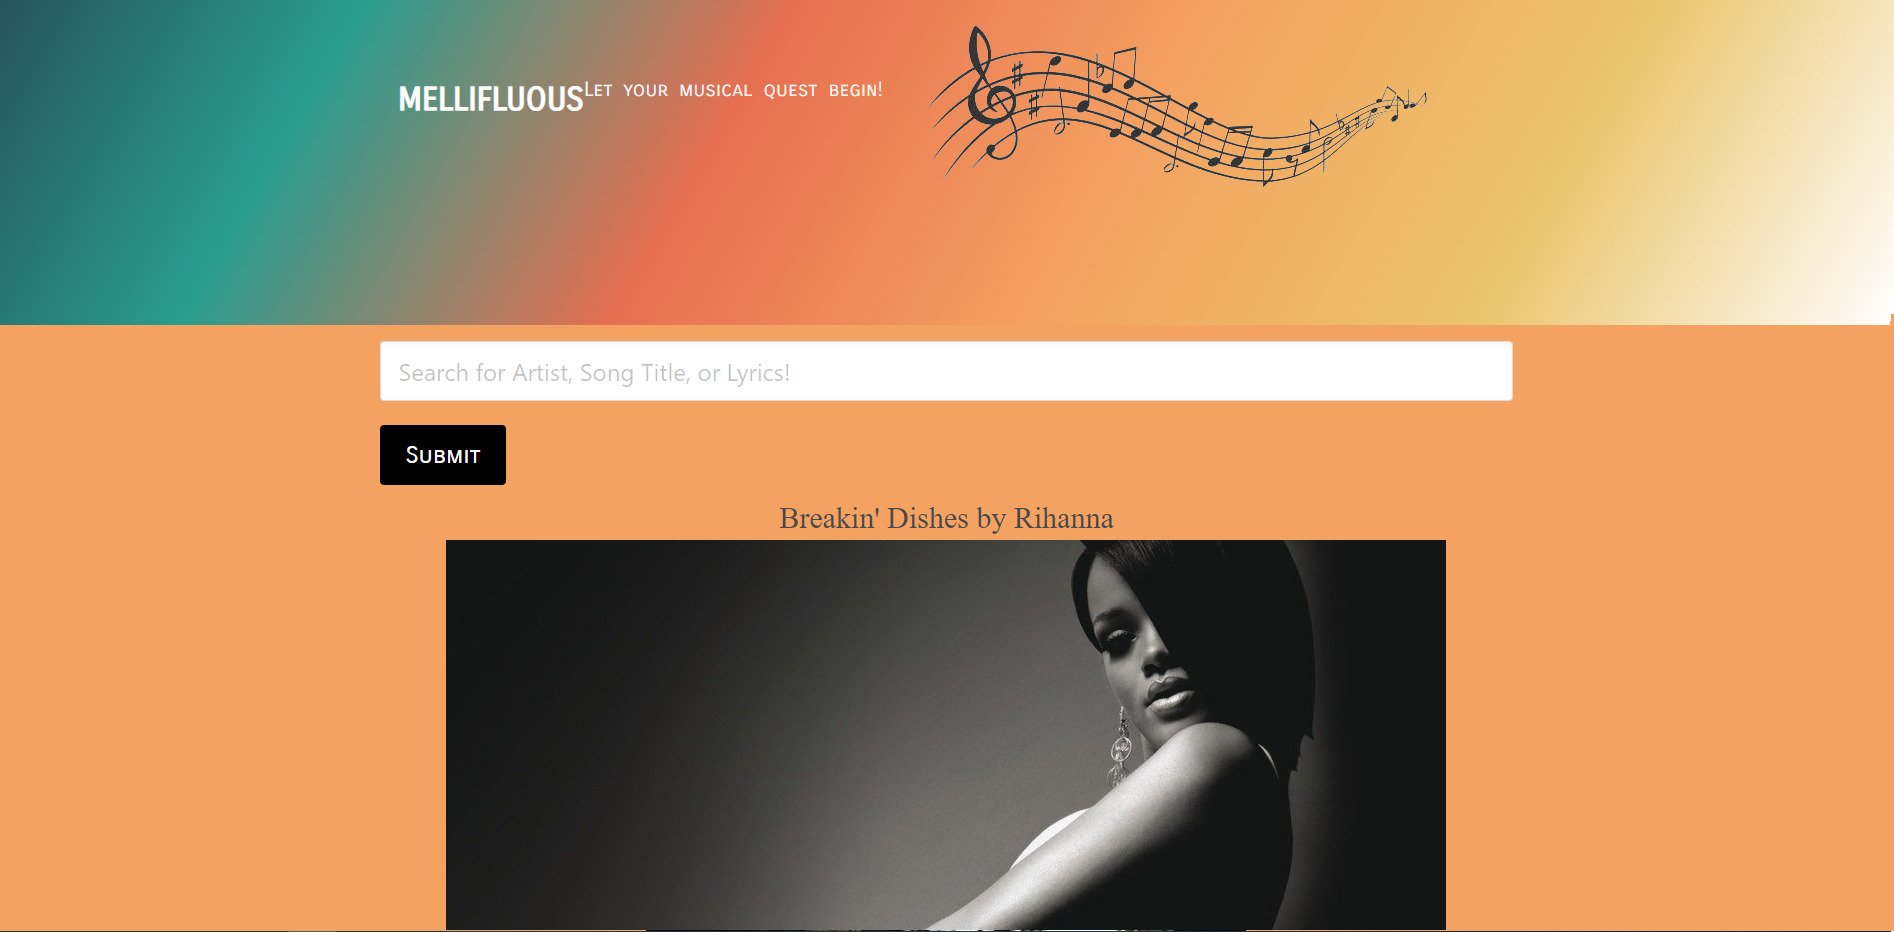
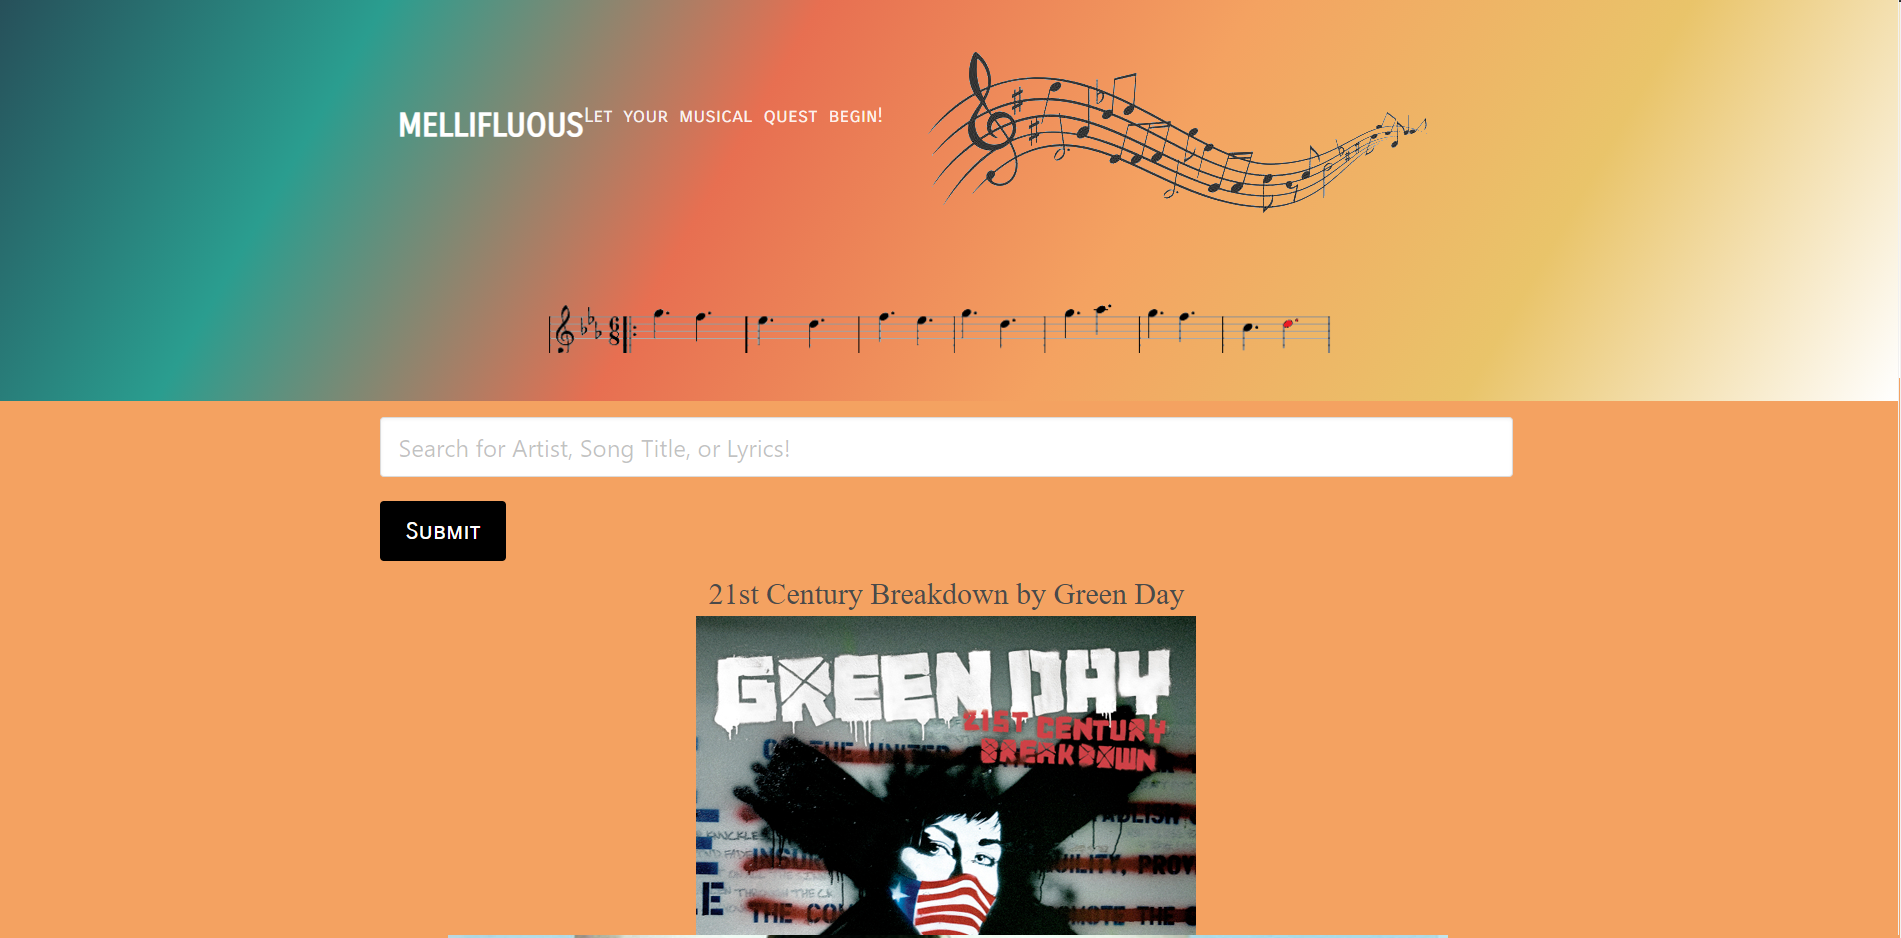
Updated screenshot to be current and added some comments.

diff --git a/assets/js/script.js b/assets/js/script.js
@@ -68,7 +68,7 @@ function searchApi() {
 
 searchApi()
 
-
+// Everything below handles the musical staff animation.
 let img = new Image();
 img.src = './assets/animated-staff-transparent.png';
 img.onload = function () {
@@ -105,8 +105,4 @@ function step() {
 
 function init() {
     window.requestAnimationFrame(step);
-    // ctx.drawImage(img, 0, 0, 49, 49, 0, 0, 800, 600)
-    // ctx.drawImage(img, 51, 0, 100, 49, 0, 0, 1600, 600)
-    // ctx.drawImage(img, 0, 51, 49, 100, 0, 0, 800, 1200)
-    // ctx.drawImage(img, 51, 51, 100, 100, 0, 0, 1600, 1200)
 }
